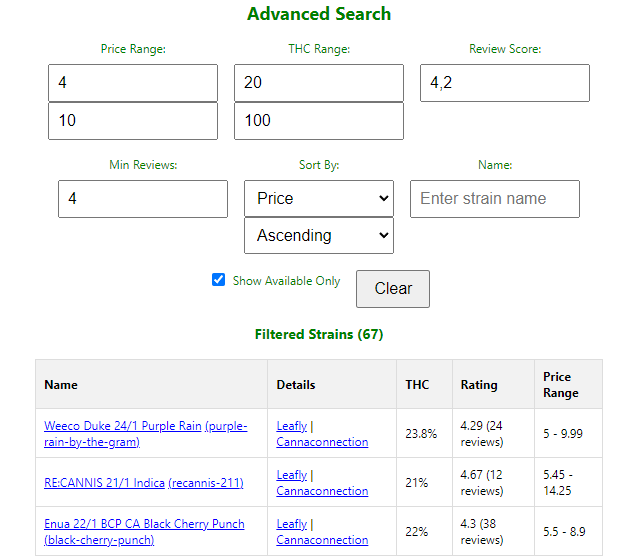
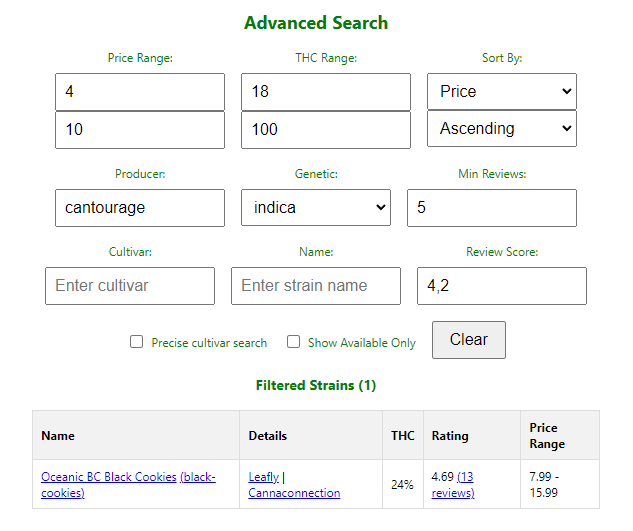
bump up version

diff --git a/README.md b/README.md
@@ -3,10 +3,11 @@
 Chrome/Edge Extension to easily compare strain prices on flowzz.com
 
 Features:
-* Sync strains from flowzz.com into local storage
+* Sync strains from flowzz.com into local storage (incl. auto refresh if flowzz strain count differs local strain count)
 * Advanced Search/Filter
-  * Price, THC, Score Filters
-  * Sort by Price, Rating, THC, Name
+  * Price, THC, Score, Producer, Genetic Filters 
+  * Sort by Price, Rating, THC, Name, published Date
+  * Show reviews directly in filter result table
 * Price Finder
   * Use auto completion to select strains and to see the vendors offering them as well as their prices
   * Get an overview which vendor is selling all selected strains and sort them by price
